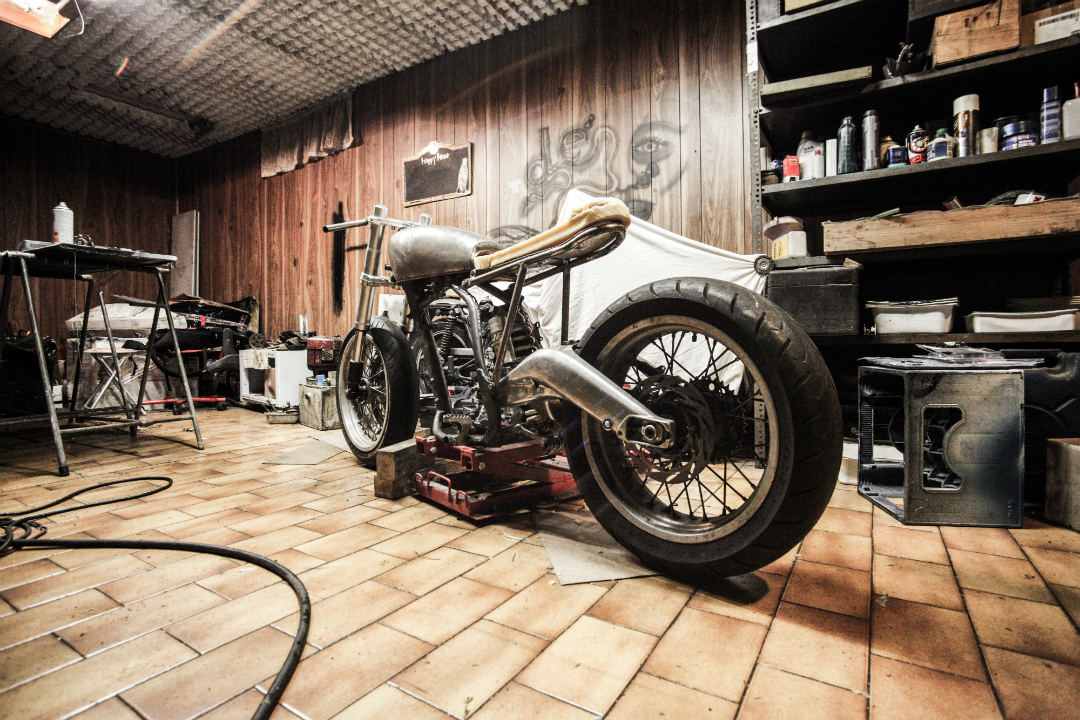
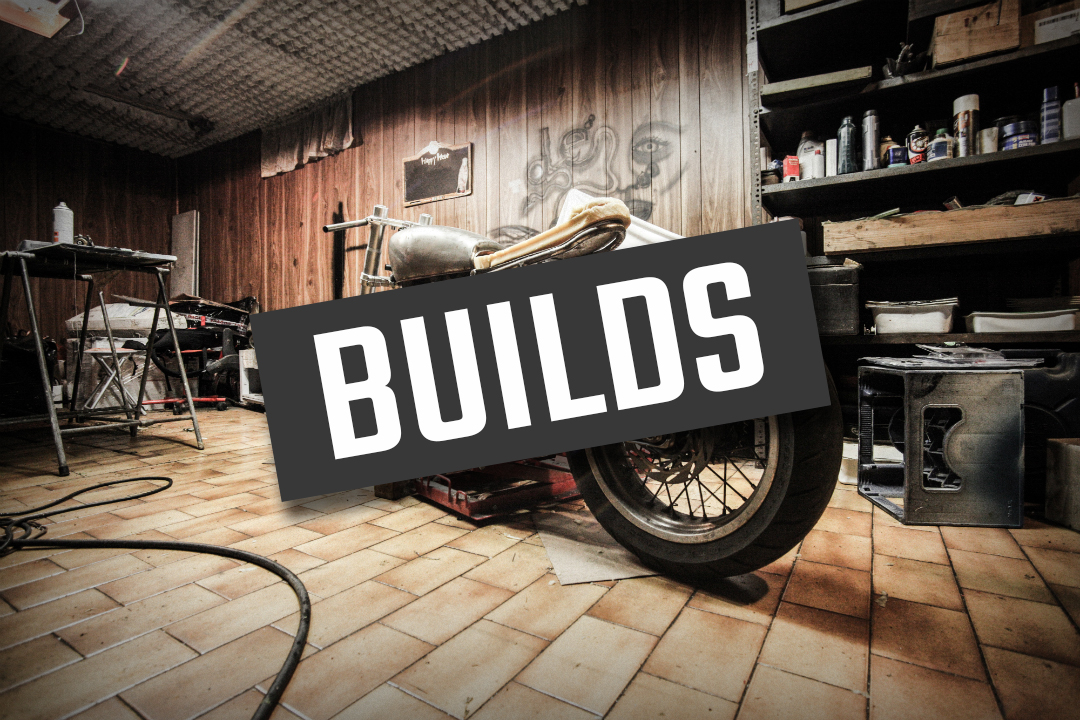
some more tweaks to the home page layout

diff --git a/public/css/style.css b/public/css/style.css
@@ -29,34 +29,34 @@ a{
 .container-grid .menu-grid{
     grid-area: menu-grid;
     display: grid;
-    grid-template-areas: '. item .';
+    grid-template-areas:
+            '. logo .'
+            '. nav-grid .';
     grid-template-columns: 20px 1fr 20px;
+    grid-template-rows: 110px 34px;
     background-color: #383838;
 }
 
 .container-grid .menu-grid .logo{
-    grid-area: item;
+    grid-area: logo;
     background: url('/img/logos/BalkanMotoLogo_1000x267_white.png') no-repeat center;
     background-size: contain;
-    height: 100px;
+    width: 100%;
     max-width: 380px;
-    grid-row: 1 / 2;
-    margin-top: 10px;
+    margin: 10px auto 0px auto;
 }
 
 .container-grid .menu-grid .nav-grid{
-    grid-area: item;
-    grid-row: 2 / 3;
+    grid-area: nav-grid;
     display: grid;
     grid-template-columns: repeat(auto-fit, minmax(56px, 1fr));
     grid-gap: 10px;
     justify-content: center;
-    height: 24px;
 }
 
 .container-grid .menu-grid .nav-grid a{
     text-decoration: none;
-    font-size: 14pt;
+    font-size: 18pt;
     color: #cbcbcb;
 }
 
@@ -75,24 +75,24 @@ a{
 .container-grid .header-grid .tutorials {
     height: 0px;
     padding-bottom: 66.66%;
-    background: url('/img/header/tutorials_1080x720.jpg') no-repeat center;
-    background-size: contain;
+    background: url('/img/header/tutorials_1080x720.jpg') center;
+    background-size: cover;
     grid-row: 1 / 2 ;
 }
 
 .container-grid .header-grid .builds {
     height: 0px;
     padding-bottom: 66.66%;
-    background: url('/img/header/builds_1080x720.jpg') no-repeat center;
-    background-size: contain;
+    background: url('/img/header/builds_1080x720.jpg') center;
+    background-size: cover;
     grid-row: 2 / 3 ;
 }
 
 .container-grid .header-grid .travel {
     height: 0px;
     padding-bottom: 66.66%;
-    background: url('/img/header/travel_1080x720.jpg') no-repeat center;
-    background-size: contain;
+    background: url('/img/header/travel_1080x720.jpg') center;
+    background-size: cover;
     grid-row: 3 / 4;
 }
 
@@ -143,7 +143,7 @@ a{
 
 .container-grid .footer-grid .tweeter .tweets .tweet .handle{
     grid-area: handle;
-    font-size: 14pt;
+    font-size: 18pt;
     color: #d8d8e2;
     justify-self: left;
 }
@@ -155,7 +155,7 @@ a{
 
 .container-grid .footer-grid .tweeter .tweets .tweet .message{
     grid-area: message;
-    font-size: 12pt;
+    font-size: 16pt;
     color: #cbcbcb;
     justify-self: left;
     text-align: left;
@@ -169,7 +169,7 @@ a{
 }
 
 .container-grid .footer-grid .links ul li{
-    font-size: 12pt;
+    font-size: 16pt;
     border-bottom: 1px solid gray;
 }
 

diff --git a/public/css/pages/home-style.css b/public/css/pages/home-style.css
@@ -13,9 +13,9 @@
     grid-area: main-grid;
     display: grid;
     grid-template-columns: repeat(auto-fit, minmax(440px, 690px));
-    grid-gap: 20px;
+    grid-gap: 50px;
     justify-content: center;
-    padding: 0px 20px;
+    padding: 50px 50px;
 }
 
 .content-grid .main-grid .post-grid{
@@ -36,7 +36,7 @@
 .content-grid .main-grid .post-grid .title{
     grid-area: title;
     color: #636b6f;
-    font-size: 14pt;
+    font-size: 18pt;
     text-align: left;
 }
 
@@ -47,14 +47,14 @@
 
 .content-grid .main-grid .post-grid .date{
     grid-area: date;
-    font-size: 12pt;
+    font-size: 16pt;
     color: lightgray;
     text-align: left;
 }
 
 .content-grid .main-grid .post-grid .summary{
     grid-area: summary;
-    font-size: 12pt;
+    font-size: 16pt;
     text-align: left;
 }
 
@@ -62,30 +62,29 @@
     color: #636b6f;
 }
 
+.content-grid .divider{
+    height: 55px;
+    line-height: 55px;
+    background-color: #ced4da;
+    font-size: 25pt;
+}
+
 .content-grid .divider1{
     grid-area: divider1;
-    height: 50px;
-    line-height: 50px;
-    background-color: #ced4da;
-    font-size: 16pt;
 }
 
 .content-grid .divider2{
     grid-area: divider2;
-    height: 50px;
-    line-height: 50px;
-    background-color: #ced4da;
-    font-size: 16pt;
 }
 
 .content-grid .instagram-grid{
     grid-area: instagram-grid;
     display: grid;
-    grid-template-columns: repeat(auto-fill, minmax(320px, 440px));
+    grid-template-columns: repeat(auto-fill, minmax(320px, 410px));
     grid-auto-flow: dense;
-    grid-gap: 20px;
+    grid-gap: 50px;
     justify-content: center;
-    padding: 0px 20px 20px 20px;
+    padding: 30px 50px 50px 50px;
 }
 
 

diff --git a/public/css/medium-style.css b/public/css/medium-style.css
@@ -1,9 +1,4 @@
-@media all and (min-device-width: 768px) {
-    .container-grid {
-        grid-template-areas: 'menu-grid' 'header-grid' 'content' 'footer';
-        grid-template-rows: 150px auto 1fr auto;
-    }
-
+@media all and (min-device-width: 768px) AND (min-width: 1080px) {
     .container-grid .header-grid {
         grid-area: header-grid;
         display: grid;
@@ -33,13 +28,13 @@
 
     .container-grid .menu-grid .logo{
         grid-area: logo;
-        margin-top: 0px;
+        margin: 15px 0px 0px 0px;
         height: 100%;
     }
 
     .container-grid .menu-grid .nav-grid{
         grid-area: nav-grid;
-        grid-template-columns: repeat(auto-fit, 70px);
+        grid-template-columns: repeat(auto-fit, 100px);
         grid-gap: 0px;
         justify-content: right;
         margin-top: 20px;

diff --git a/public/css/pages/home-large-style.css b/public/css/pages/home-large-style.css
@@ -1,9 +1,5 @@
-@media all and (min-device-width: 1080px) {
+@media all and (min-width: 768px) AND (min-device-width: 1080px) {
     .content-grid .main-grid {
         grid-template-columns: repeat(2, 1fr);
-    }
-
-    .content-grid .instagram-grid {
-        grid-template-columns: repeat(4, 1fr);
     }
 }

diff --git a/resources/views/pages/home.blade.php b/resources/views/pages/home.blade.php
@@ -6,7 +6,7 @@
 @endsection
 
 @section('content')
-    <div class="divider1">
+    <div class="divider1 divider">
         FEATURED ARTICLES
     </div>
     <div class="grid-item main-grid">
@@ -51,7 +51,7 @@
             </div>
         </div>
     </div>
-    <div class="divider2">
+    <div class="divider2 divider">
         <span class="fab fa-instagram"></span>BalkanMoto2018
     </div>
     <div class="grid-item instagram-grid">
